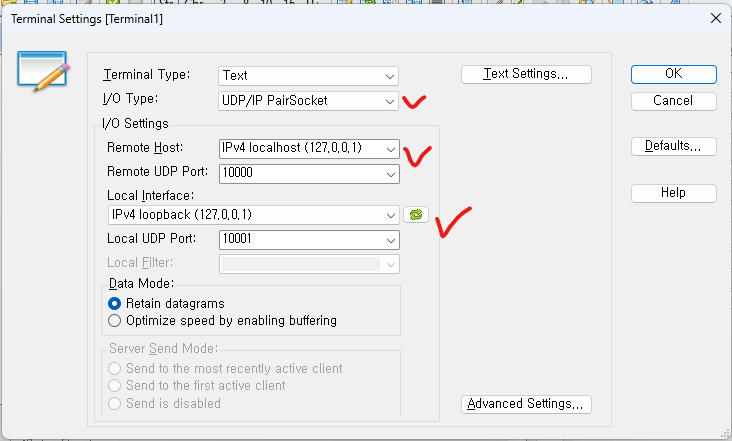
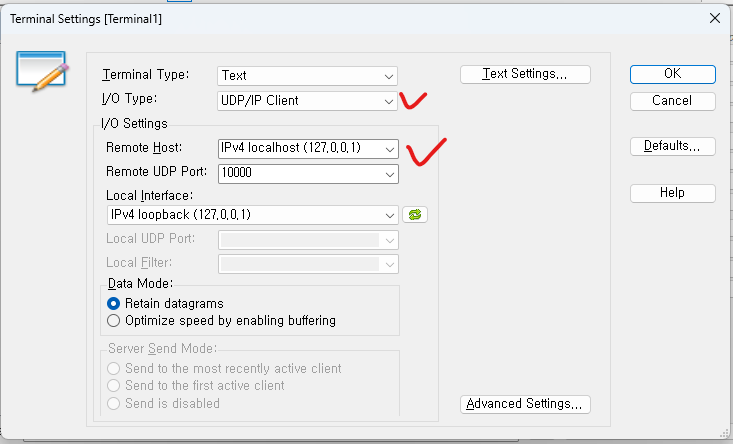
YAT의 UDP 설정 설명 수정

diff --git a/src/prototypes/pyUDPMaint/main.py b/src/prototypes/pyUDPMaint/main.py
@@ -5,7 +5,7 @@ user_command = ""  # 명령어를 저장할 문자열
 def create_udp_socket():
     # UDP 소켓 생성
     sock = socket.socket(socket.AF_INET, socket.SOCK_DGRAM)
-    sock.bind(('127.0.0.1', 10001))  # local port 10000
+    sock.bind(('127.0.0.1', 10000))  # local port 10000
     # 소켓을 non-blocking 모드로 설정
     sock.setblocking(False)
     return sock
@@ -47,7 +47,7 @@ def main():
     try:
         # UDP 소켓 생성
         sock = create_udp_socket()
-        print("UDP Server Start (local port: 10001)")
+        print("UDP Server Start (local port: 10000)")
         
         # 메인 루프 실행
         main_loop(sock)

diff --git a/doc/RaspberryPi_UDP_MaintPort/README.md b/doc/RaspberryPi_UDP_MaintPort/README.md
@@ -27,8 +27,9 @@ https://sourceforge.net/projects/y-a-terminal/files/
 
 ![alt text](./images/image-3.png)
 
-저희는 UDP를 사용하고 그중에서 양방향 통신을 할 예정이므로 PairSocket을 사용 합니다. Host와 Port는 적절히 조정해 줍니다. 저는 노트북 한대에서 터미널 프로그램과 파이썬 프로그램을 모두 실행 시킬 예정이라서 localhost로 설정하였고 포트는 10000과 10001을 사용하였습니다.
+저희는 UDP를 사용하고 UDP/IP Client를 사용 합니다. Host와 Port는 적절히 조정해 줍니다. 저는 노트북 한대에서 터미널 프로그램과 파이썬 프로그램을 모두 실행 시킬 예정이라서 localhost로 설정하였고 포트는 10000을 사용하였습니다. 필요에 따라 적절히 조정 해주세요.
 ![alt text](./images/image-4.png)
+
 
 문자 송신 시에 CR LF를 붙여주어 Pi에 문자가 전달 되면 '\n'으로 명령 입력을 구분하도록 하겠습니다.
 ![alt text](./images/image-5.png)
